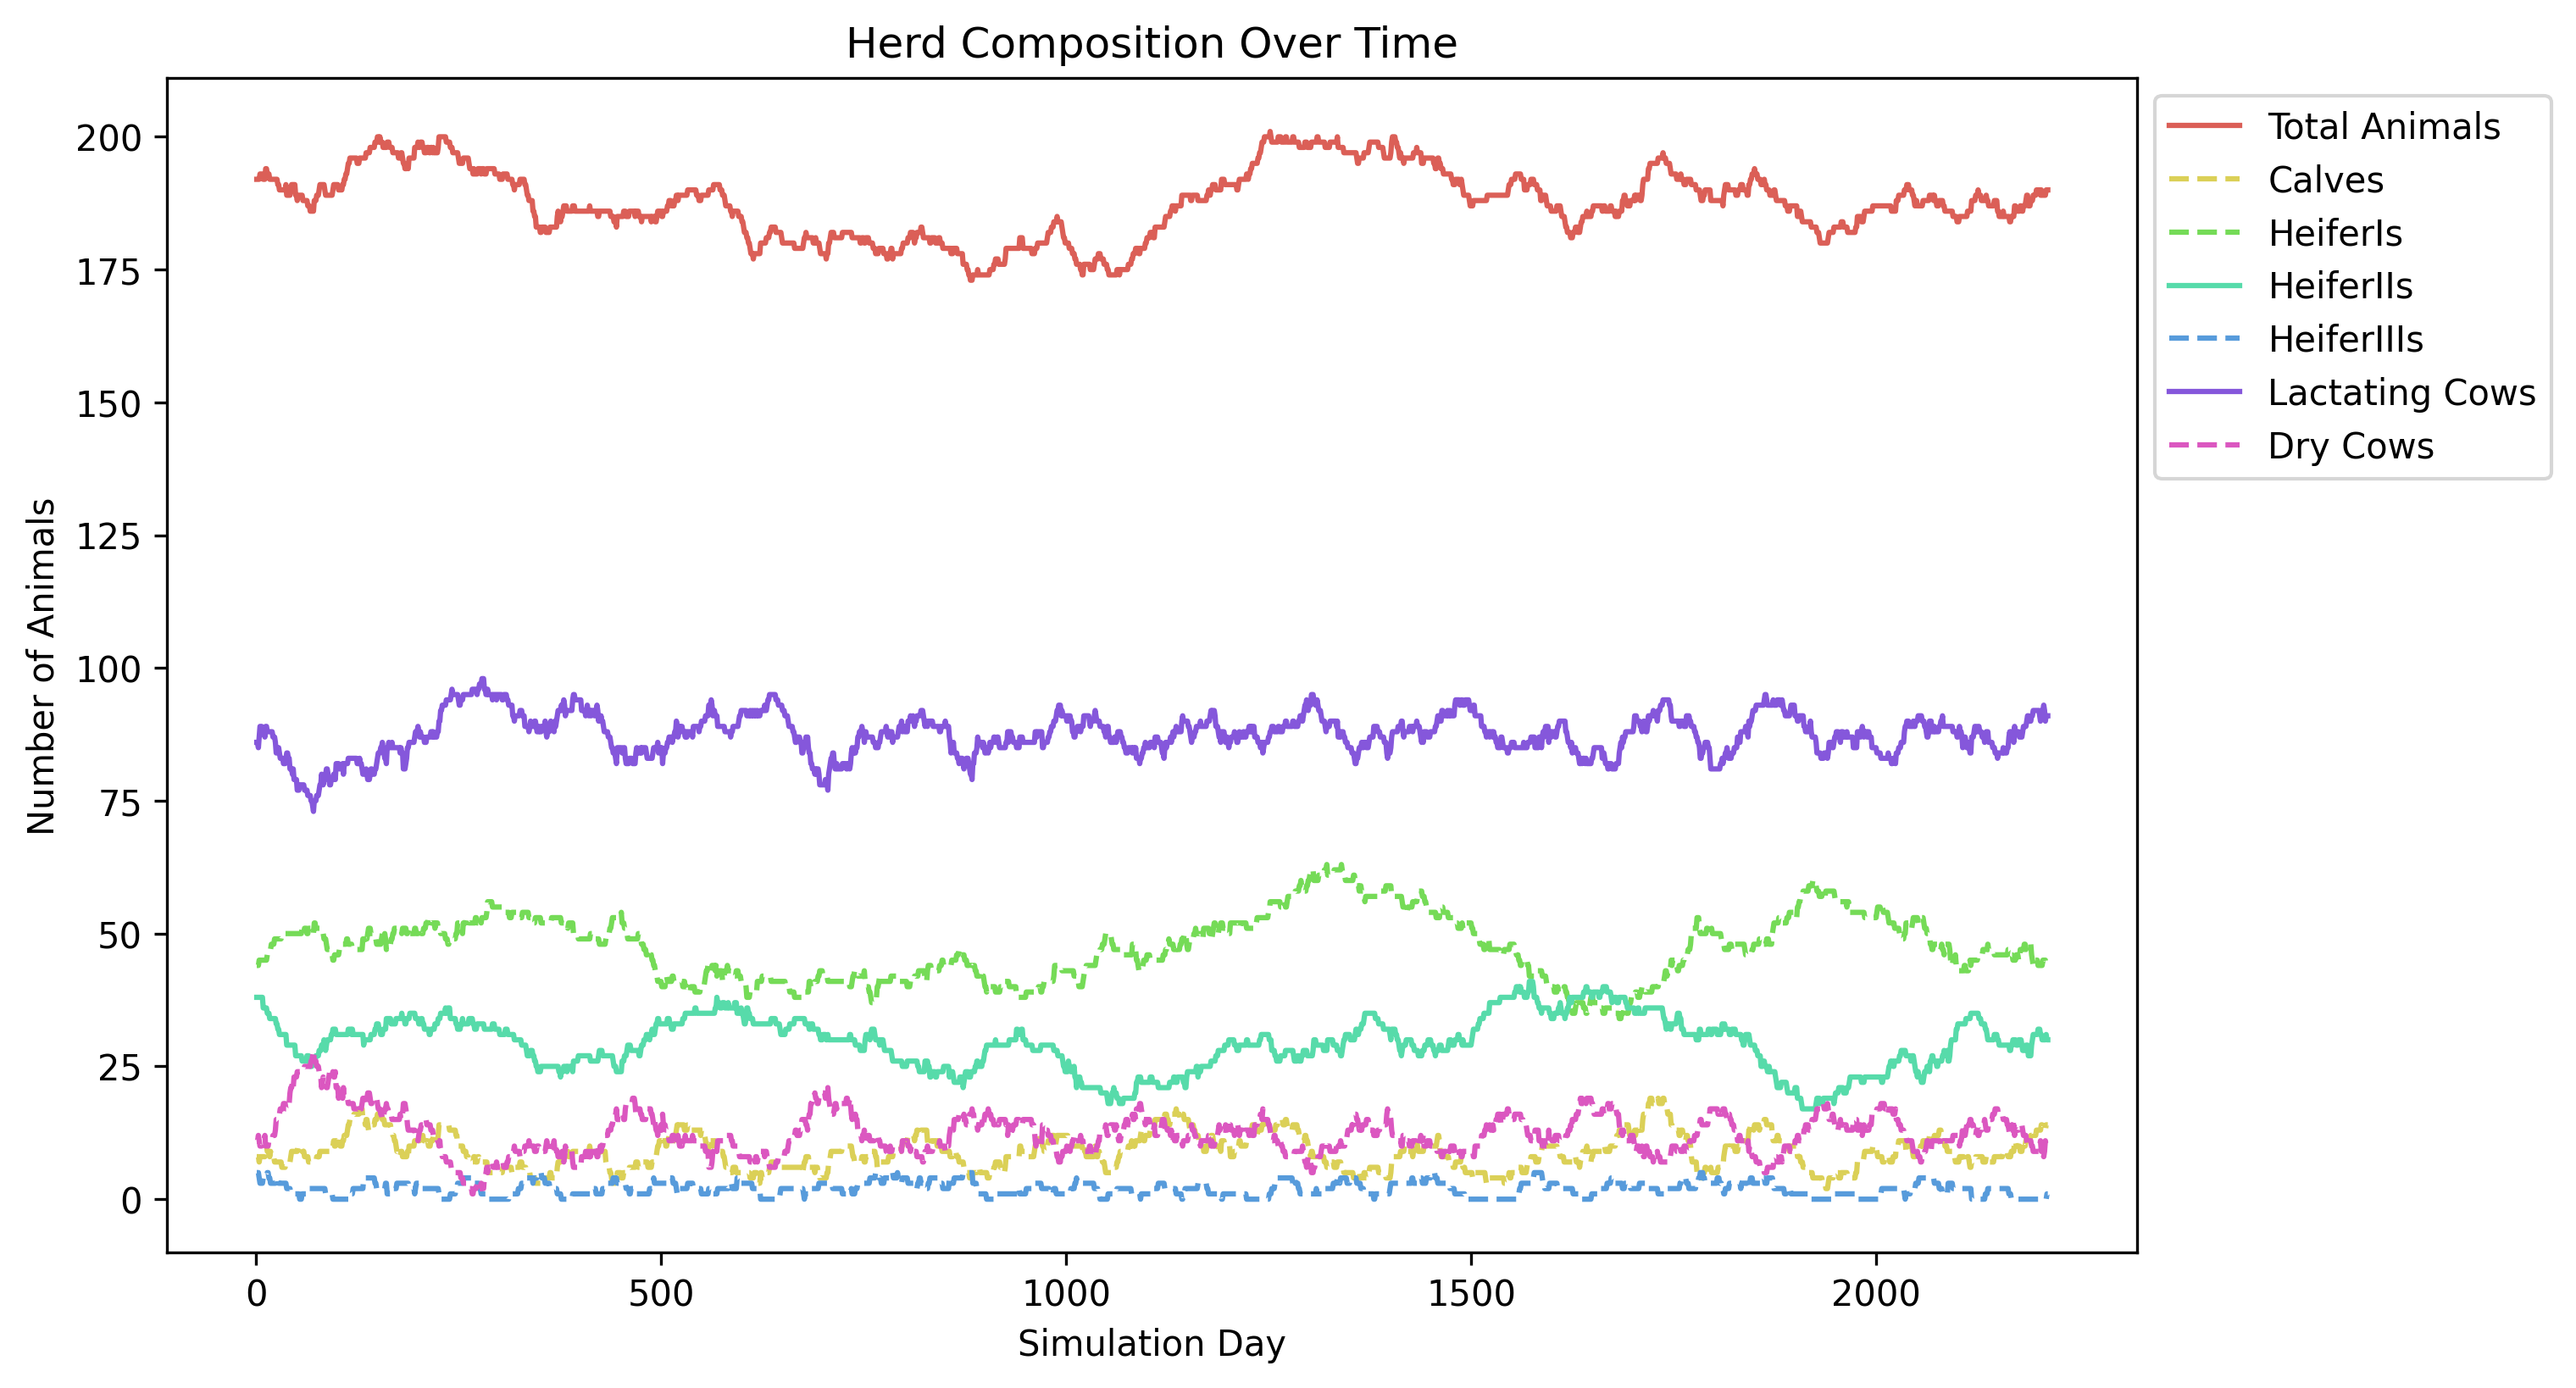
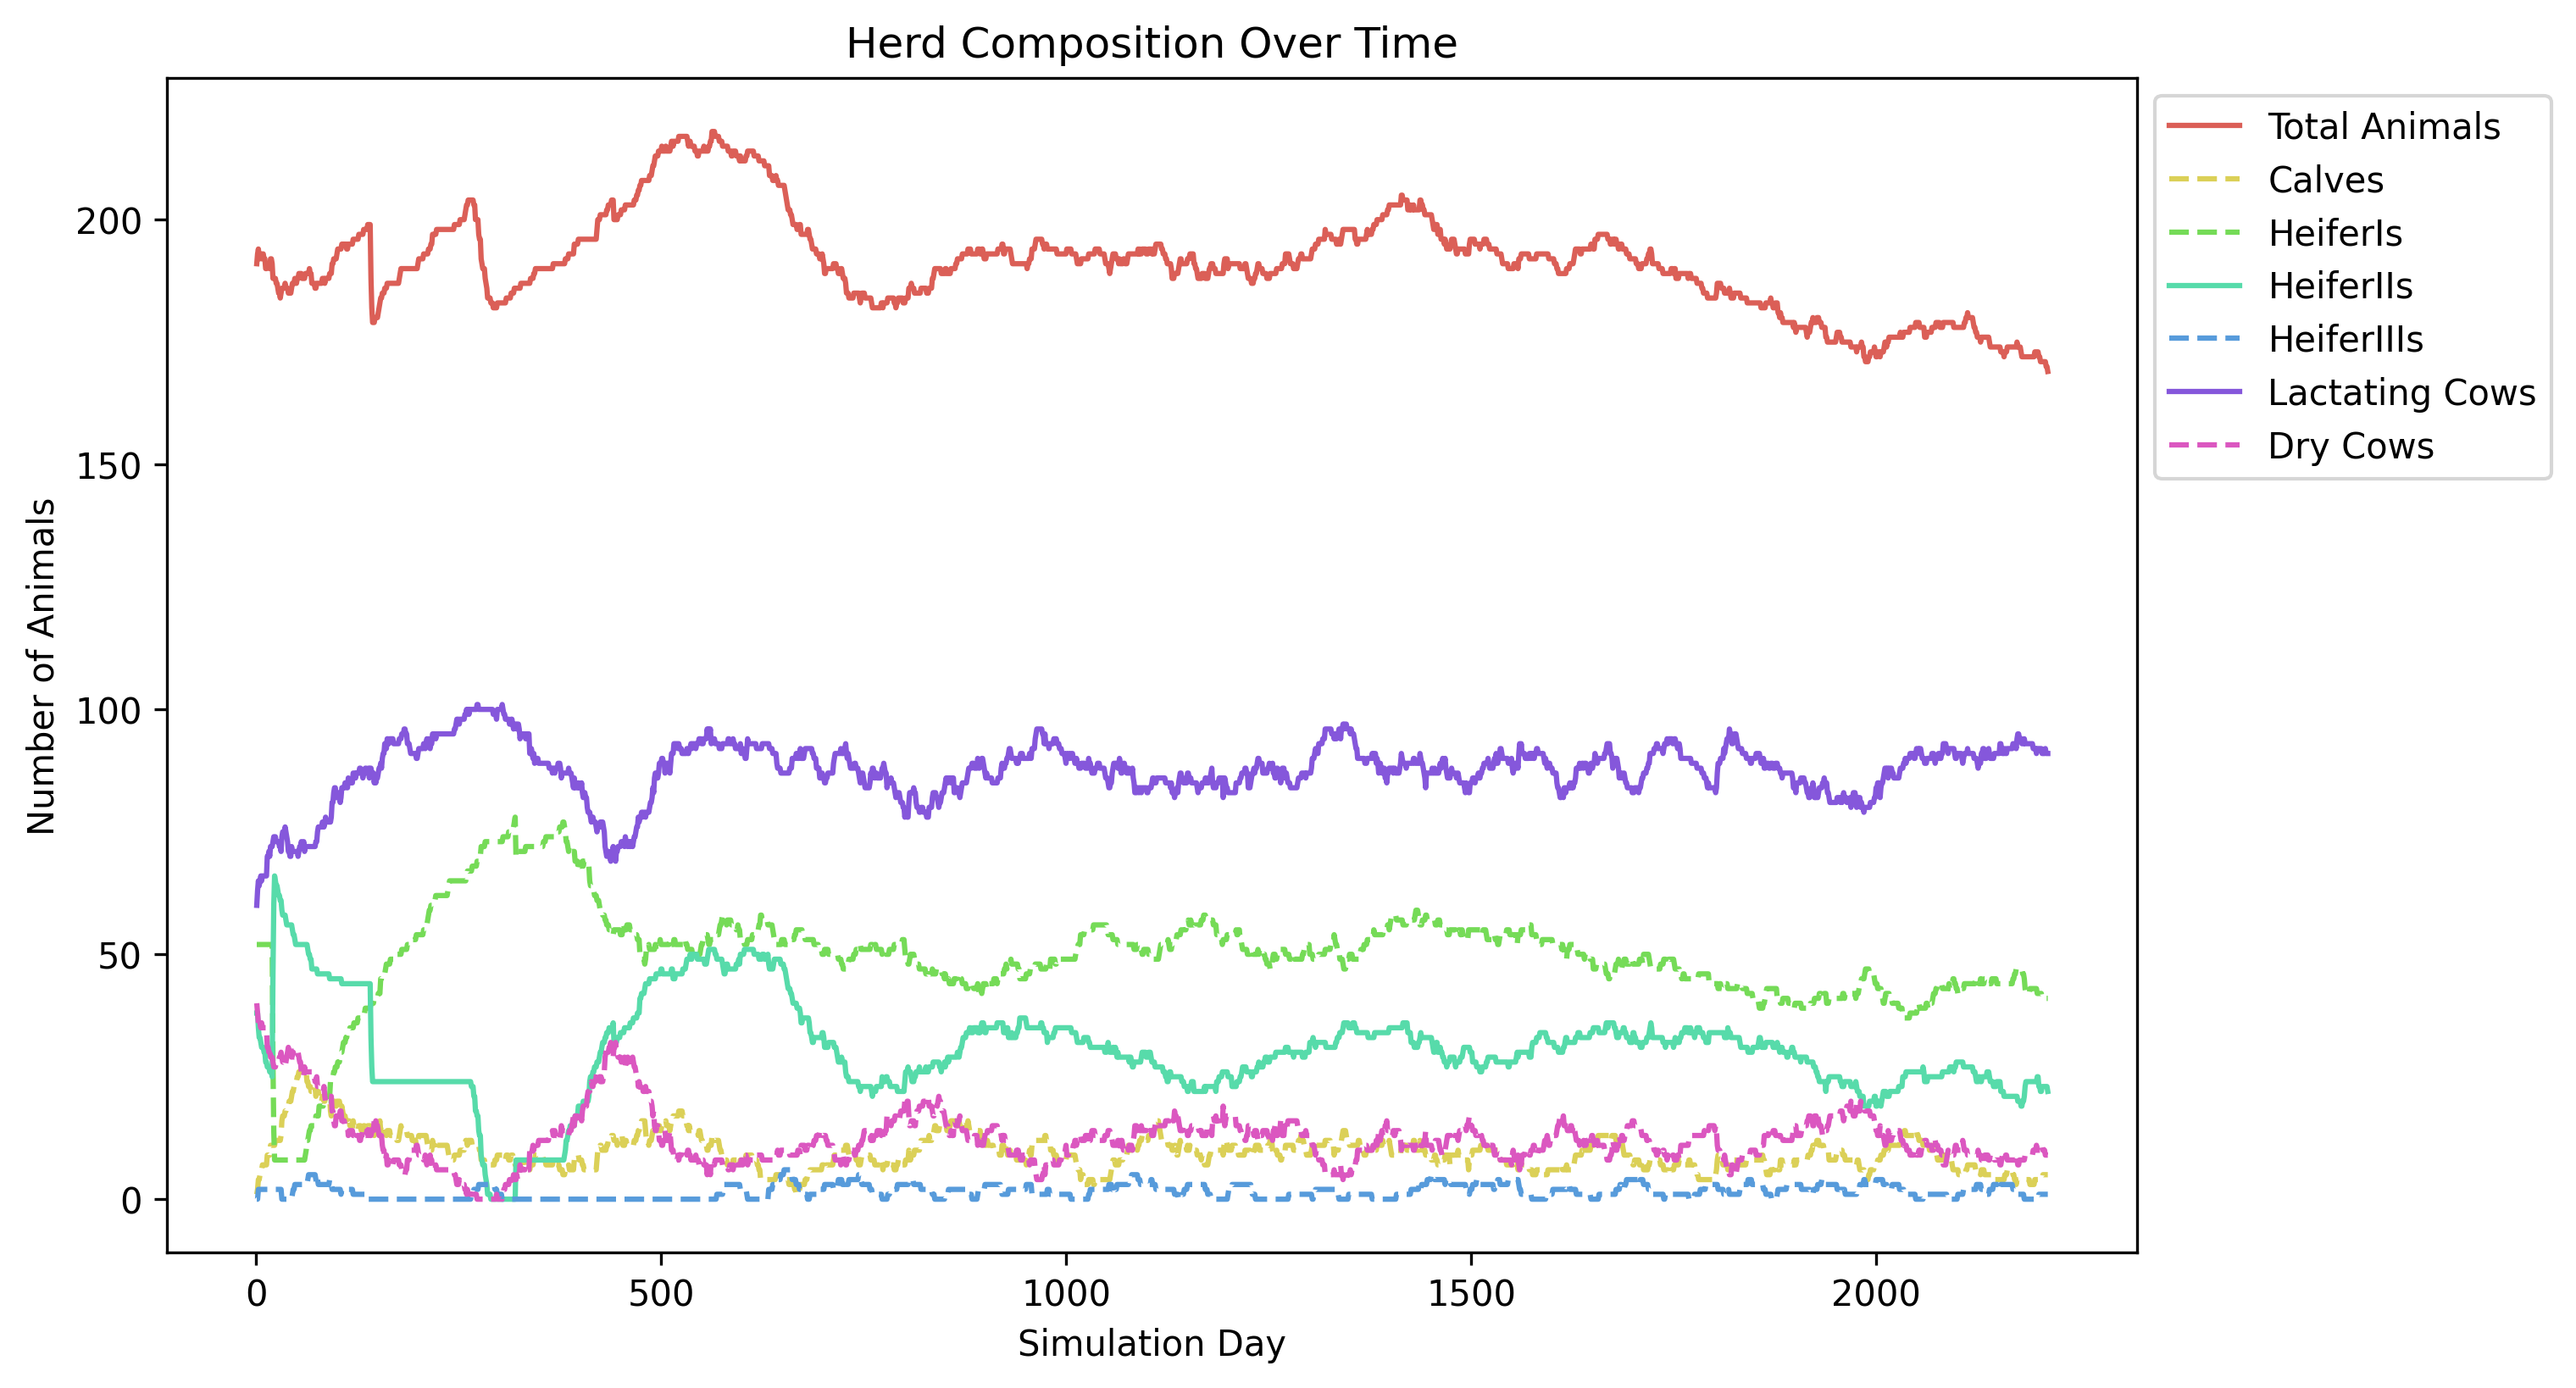
Fixed lint warnings

diff --git a/tests/animal_module_tests/test_heiferII.py b/tests/animal_module_tests/test_heiferII.py
@@ -383,10 +383,11 @@ def test_get_general_estrus_detection_rate(mocker: MockerFixture, mocked_estrus_
         (1.0, 1.0),
     ]
 )
-def test_get_specific_estrus_detection_rate(mocker: MockerFixture, mocked_estrus_detection_rate: float,
-                                            expected_estrus_detection_rate: float) -> None:
+def test_get_user_defined_synch_ed_estrus_detection_rate(mocker: MockerFixture, mocked_estrus_detection_rate: float,
+                                                         expected_estrus_detection_rate: float) -> None:
     """
-    Unit test for _get_user_defined_synch_ed_estrus_detection_rate() static method of HeiferII class in heiferII.py file.
+    Unit test for _get_user_defined_synch_ed_estrus_detection_rate() static method of HeiferII class in
+    heiferII.py file.
     """
 
     # Arrange

diff --git a/RUFAS/routines/animal/life_cycle/heiferII.py b/RUFAS/routines/animal/life_cycle/heiferII.py
@@ -303,7 +303,7 @@ class HeiferII(HeiferI):
         # requirement of P from the ration (g) (A.1B-D.E.7)
         self.p_req = p_absorb / 0.664
 
-    def update(self, sim_day):
+    def update(self, sim_day):  # C901: noqa
         """
         Controls heifer's grow with average daily gain based on user's input
         until breeding start day. Here is the place to change growth rate with